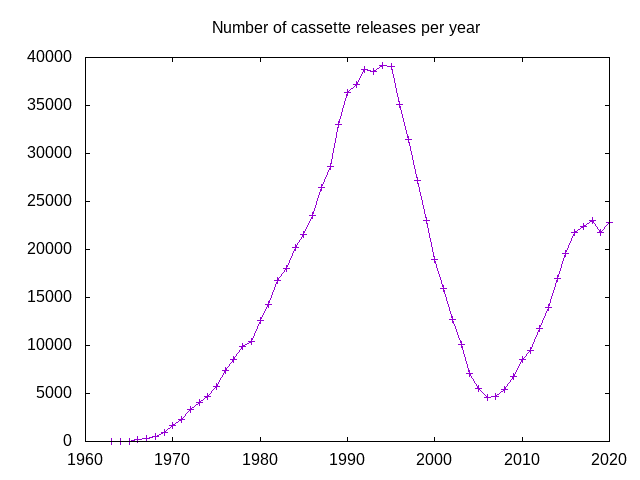
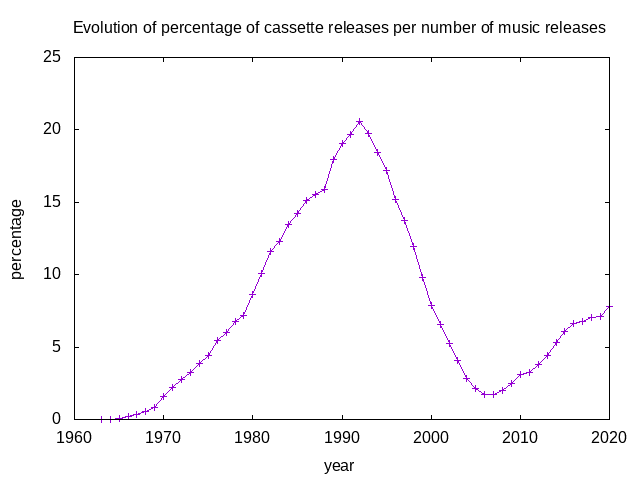
percentage of releases, instead of total numbers
We were showing the number of cassette releases, but now (like in the
original graphs), we're showing a percentage relatiev to total number
of releases.

diff --git a/fetch-cass-data.js b/fetch-cass-data.js
@@ -1,0 +1,27 @@
+/* 
+ * Discogs API documentation:
+ * * https://www.discogs.com/developers/#page:database,header:database-search
+ * 
+ * JS library to use discogs API:
+ * * https://github.com/bartve/disconnect
+ *
+ * This script fetches the number of cassette tape releases per year, according
+ * to the most recent discogs data.
+ */
+
+// usage: node fetch-data.js API_TOKEN year
+var myArgs = process.argv.slice(2);
+var userToken  = myArgs[0];
+var searchYear = myArgs[1];
+
+var Discogs = require('disconnect').Client;
+var db = new Discogs({userToken: userToken}).database();
+
+var search = {year: searchYear, type: "release", format: "Cassette"};
+try {
+	db.search(search, function(empty, result, usage) {
+		console.log(result.pagination.items);
+	});
+} catch(err) {
+	console.error("# ERROR: trying to get " + searchYear + " we got: " + err);
+};

diff --git a/fetch-all-data.js b/fetch-all-data.js
@@ -5,7 +5,7 @@
  * JS library to use discogs API:
  * * https://github.com/bartve/disconnect
  *
- * This script fetches the number of cassette tape releases per year, according
+ * This script fetches the number of all releases per year, according
  * to the most recent discogs data.
  */
 
@@ -17,10 +17,10 @@ var searchYear = myArgs[1];
 var Discogs = require('disconnect').Client;
 var db = new Discogs({userToken: userToken}).database();
 
-var search = {year: searchYear, type: "release", format: "Cassette"};
+var search = {year: searchYear, type: "release"};
 try {
 	db.search(search, function(empty, result, usage) {
-		console.log(searchYear + "\t" + result.pagination.items);
+		console.log(result.pagination.items);
 	});
 } catch(err) {
 	console.error("# ERROR: trying to get " + searchYear + " we got: " + err);
